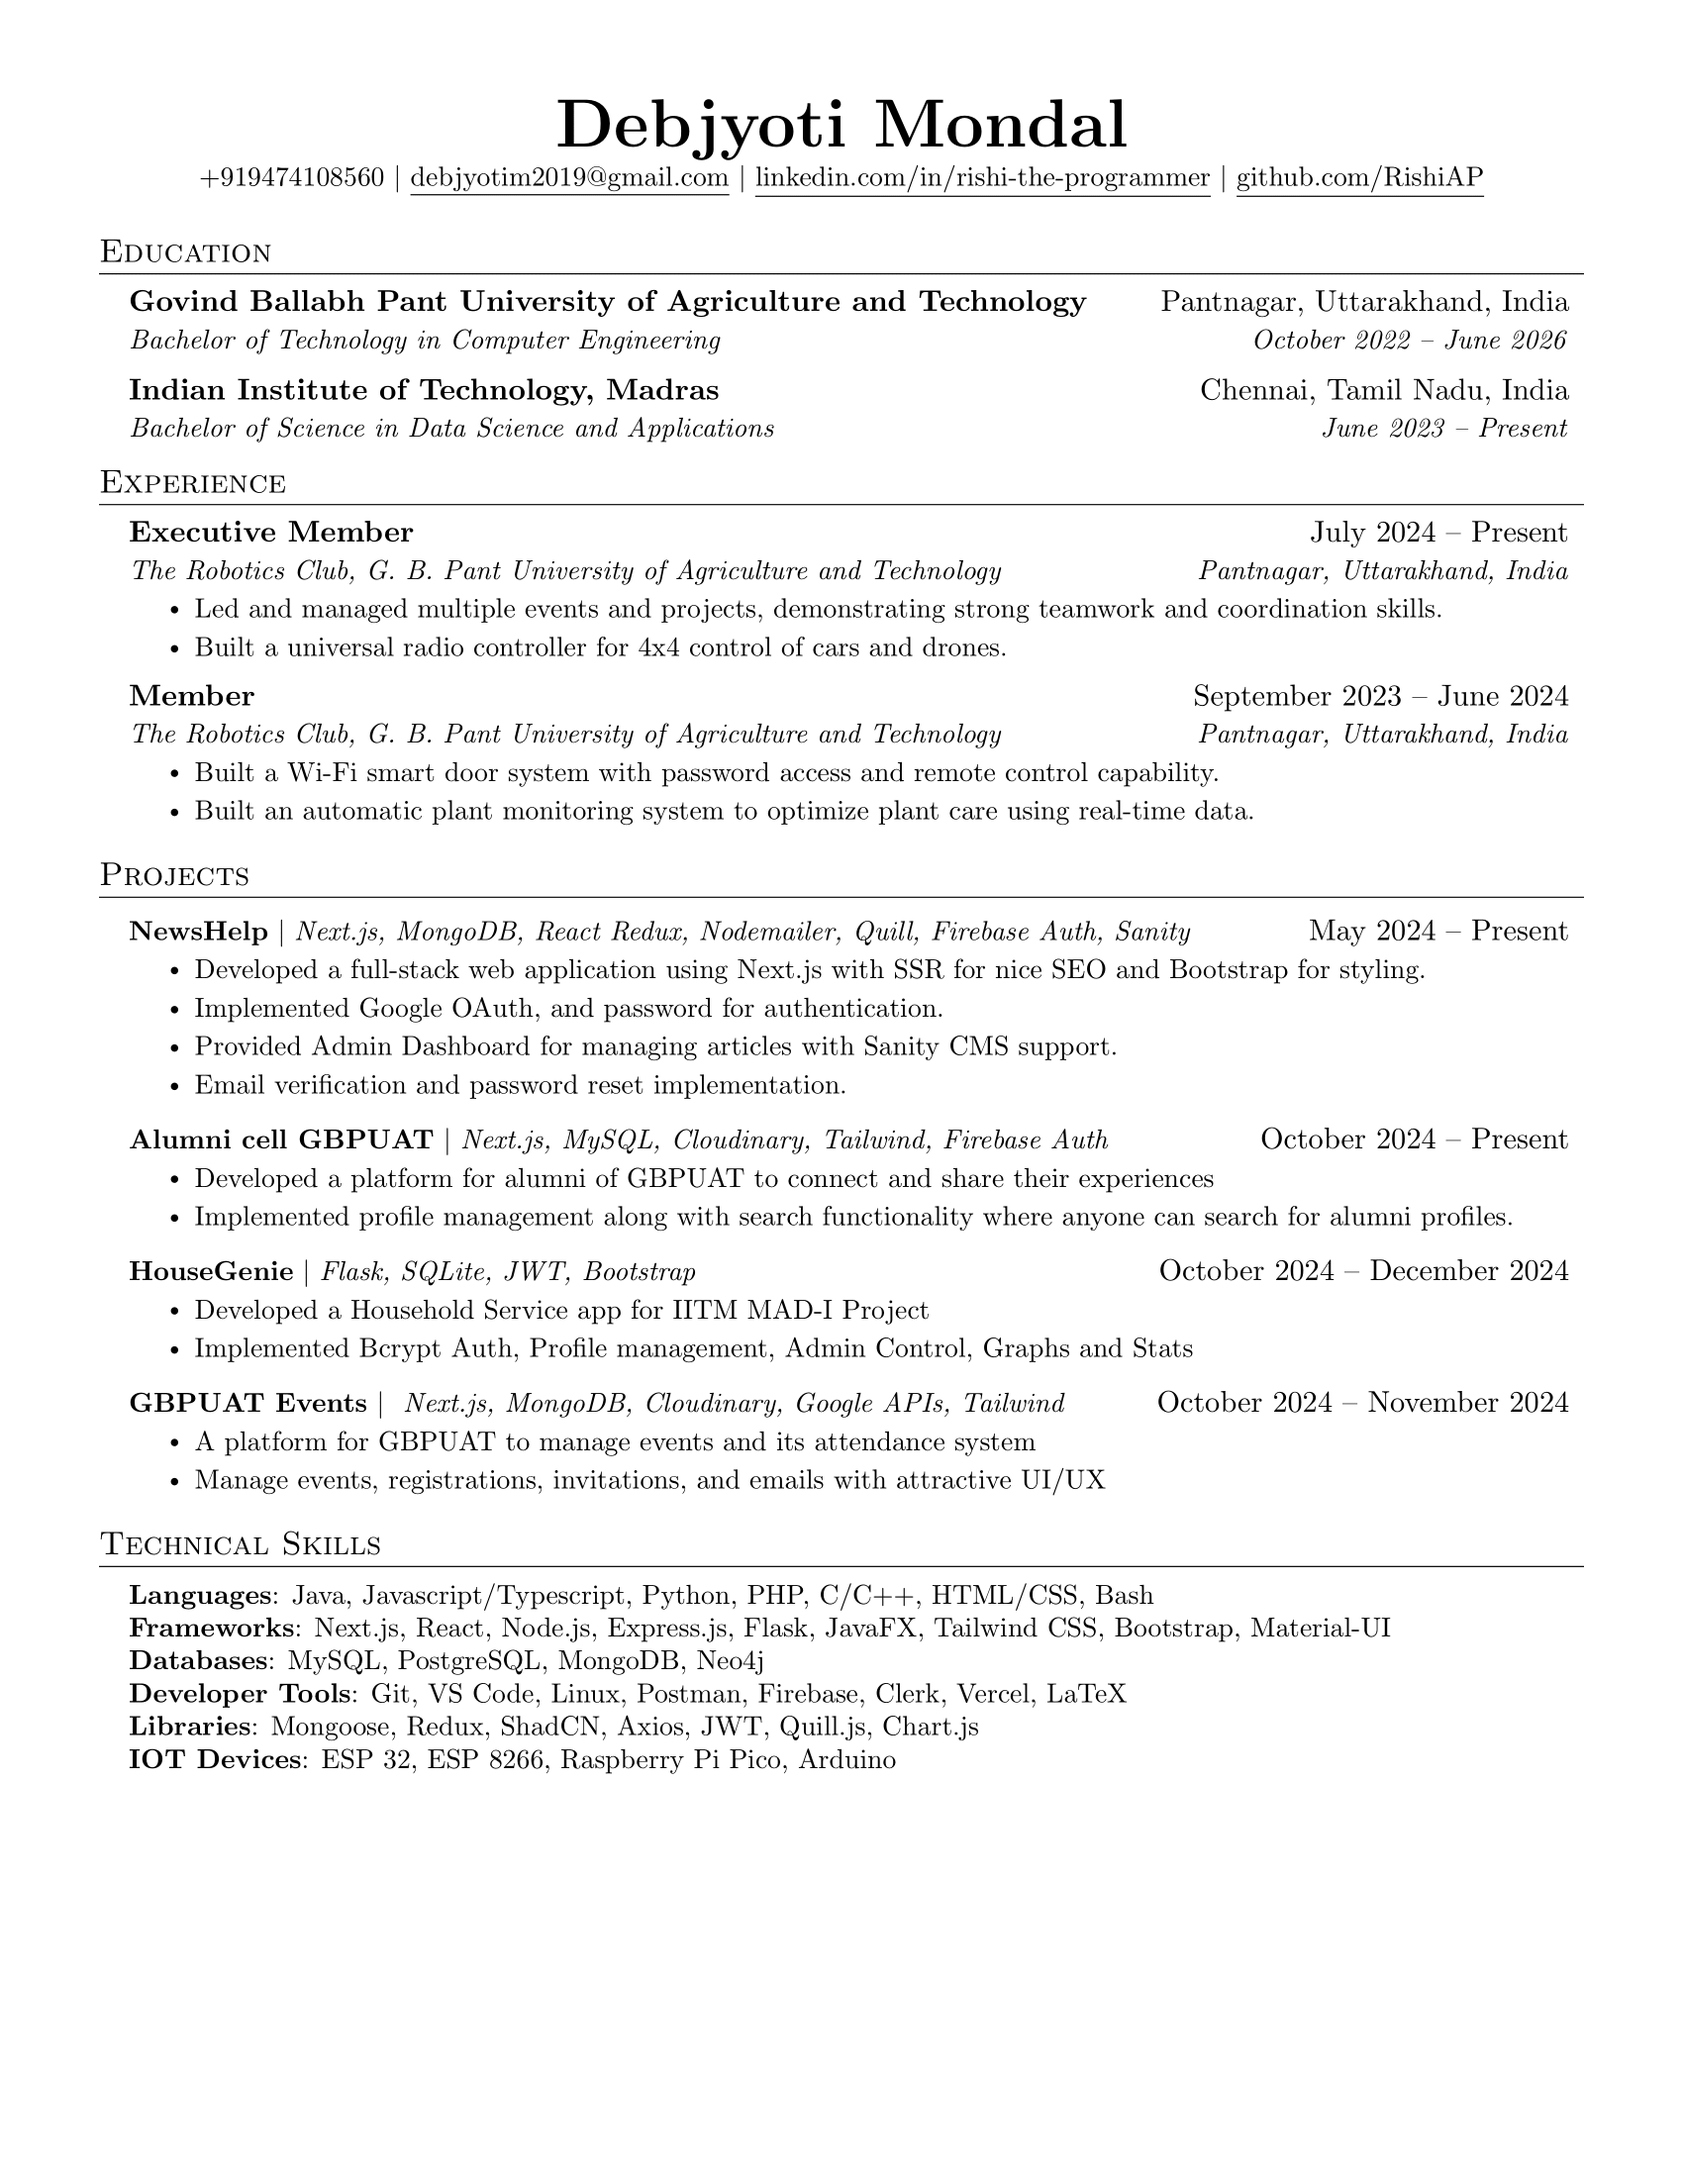
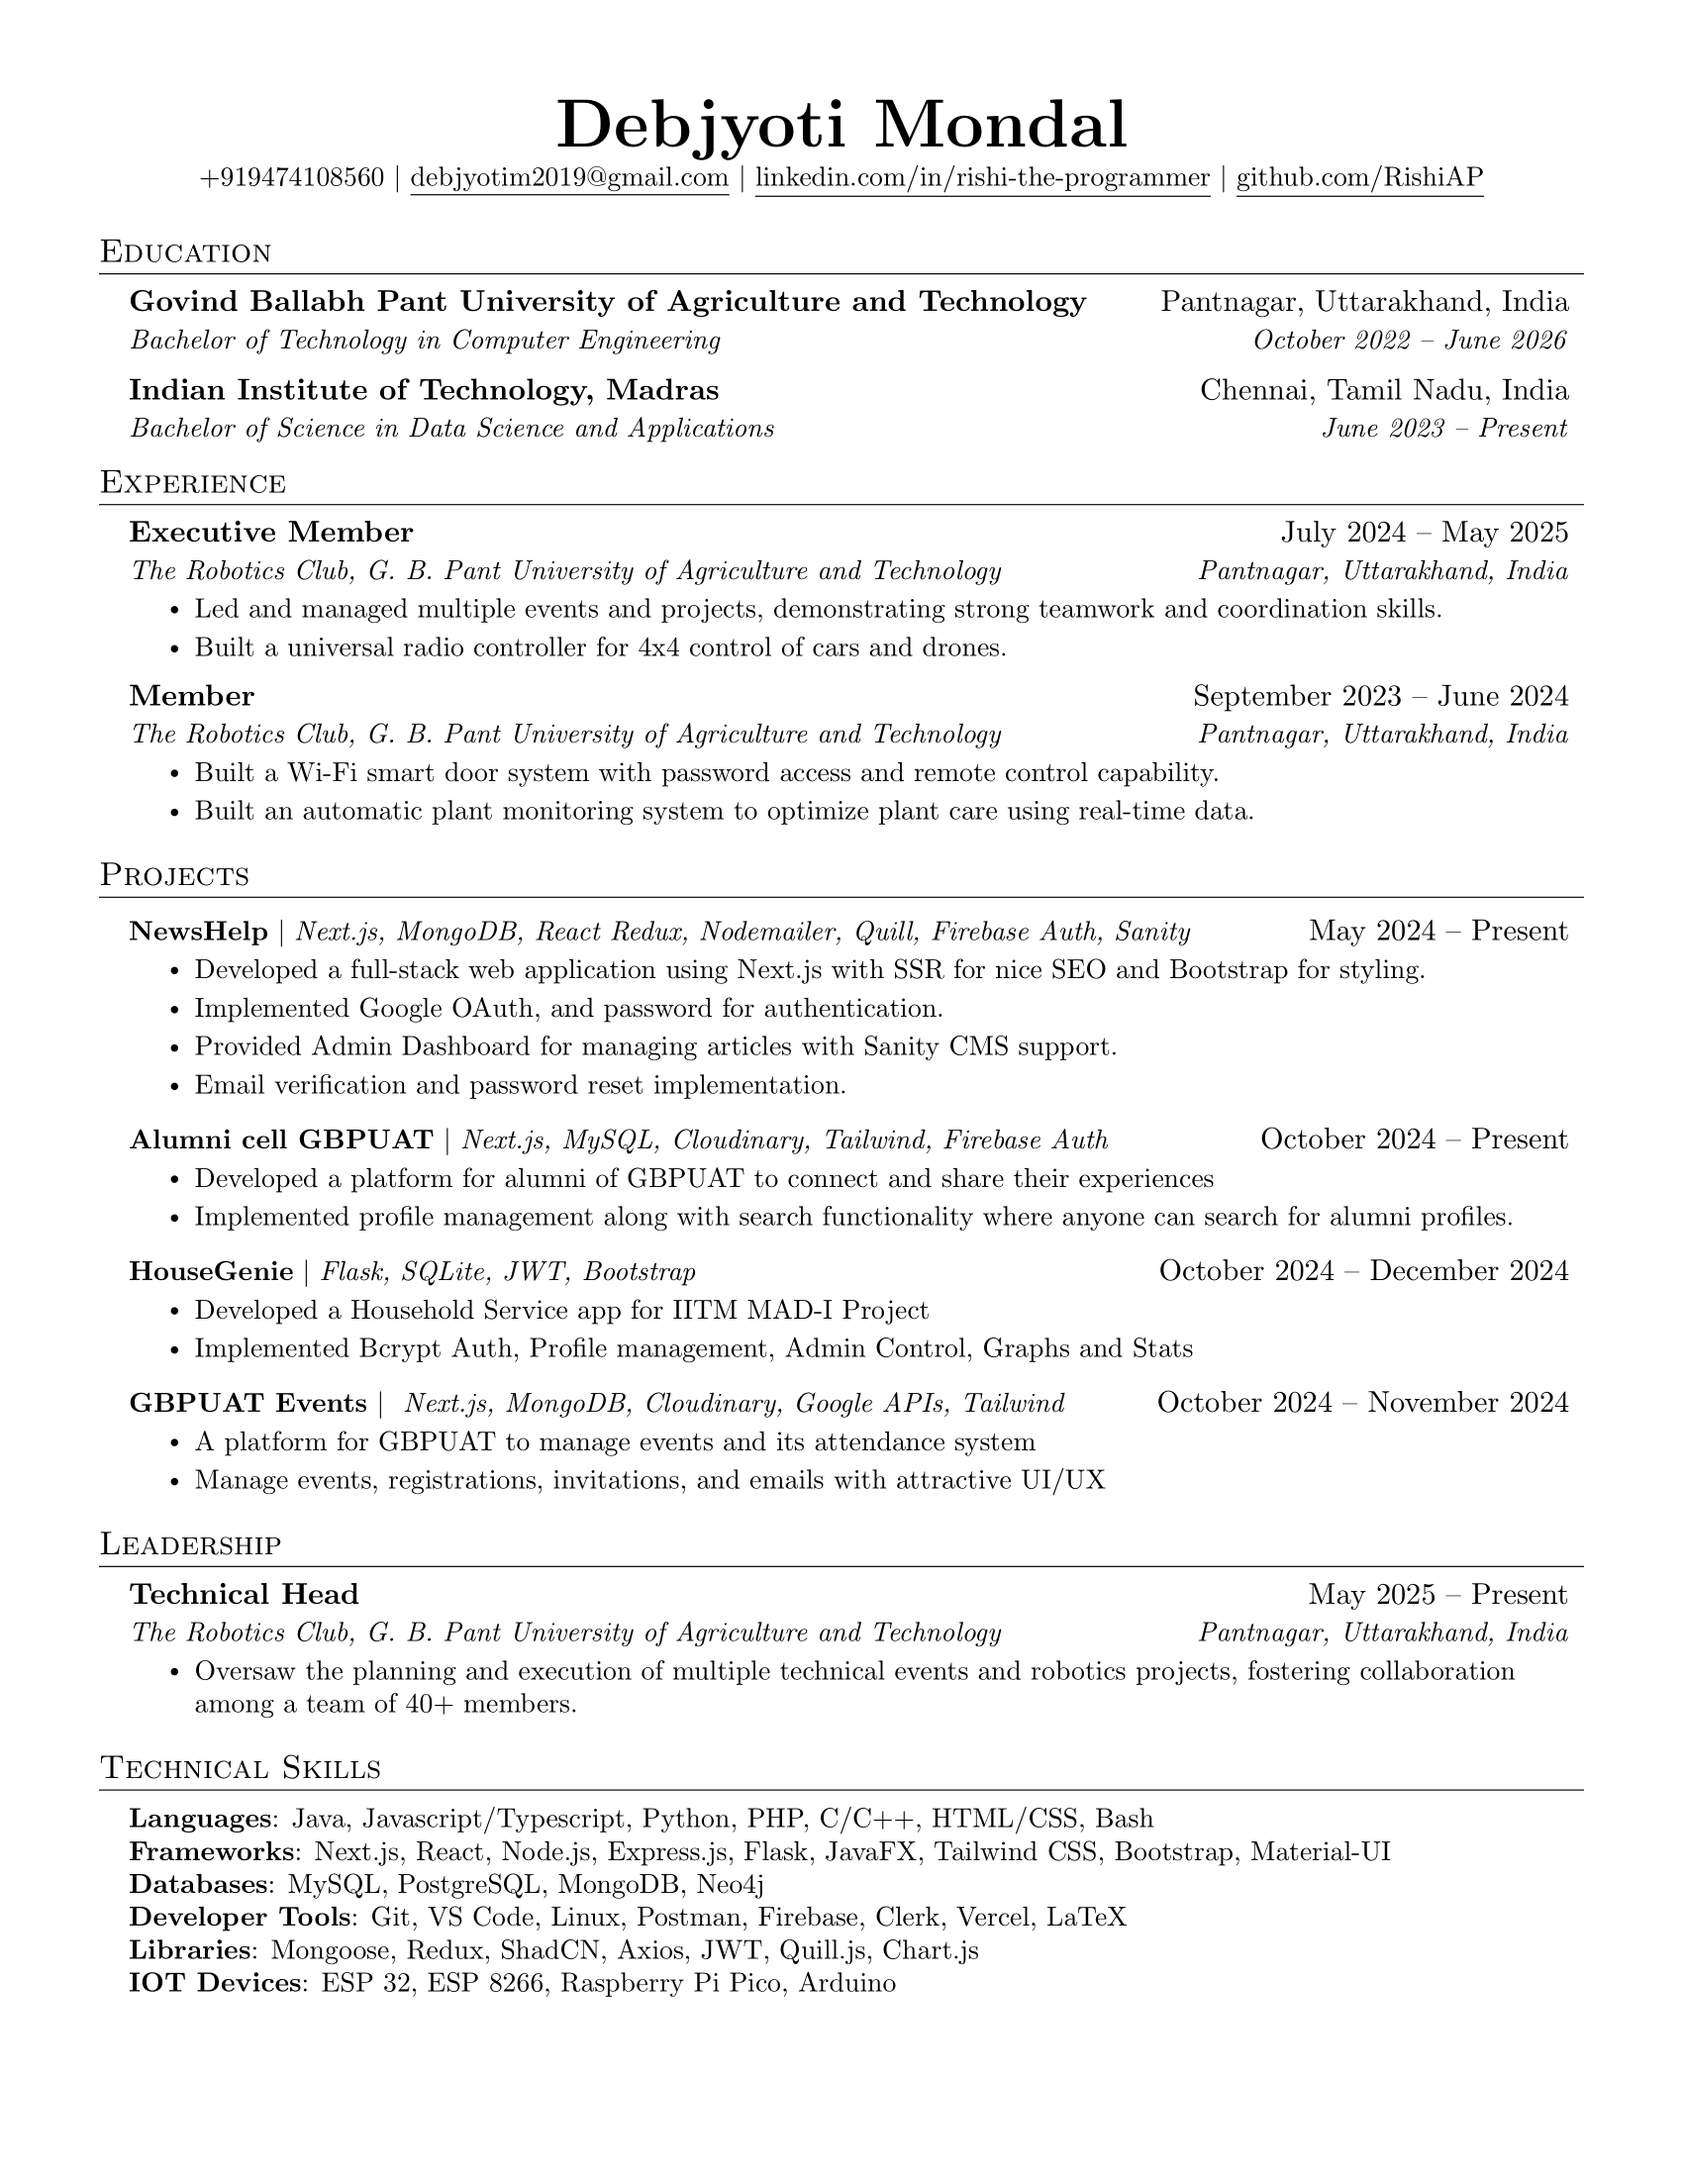
Added Technical Head for Robotics Club

Changed region(s): [[0.0624, 0.68, 0.9041, 0.9273], [0.8729, 0.2164, 0.9353, 0.2473], [0.7794, 0.2164, 0.8418, 0.2473]]

diff --git a/resume.tex b/resume.tex
@@ -131,7 +131,7 @@
   \resumeSubHeadingListStart
 
     \resumeSubheading
-      {Executive Member}{July 2024 -- Present}
+      {Executive Member}{July 2024 -- May 2025}
       {The Robotics Club, G. B. Pant University of Agriculture and Technology}{Pantnagar, Uttarakhand, India}
       \resumeItemListStart
       \resumeItem{Led and managed multiple events and projects, demonstrating strong teamwork and coordination skills.}
@@ -191,6 +191,19 @@
     \resumeSubHeadingListEnd
 
 
+
+%-----------LEADERSHIP-----------
+\section{Leadership}
+  \resumeSubHeadingListStart
+
+    \resumeSubheading
+      {Technical Head}{May 2025 -- Present}
+      {The Robotics Club, G. B. Pant University of Agriculture and Technology}{Pantnagar, Uttarakhand, India}
+      \resumeItemListStart
+        \resumeItem{Oversaw the planning and execution of multiple technical events and robotics projects, fostering collaboration among a team of 40+ members.}
+      \resumeItemListEnd
+
+    \resumeSubHeadingListEnd
 
 %
 %-----------PROGRAMMING SKILLS-----------
